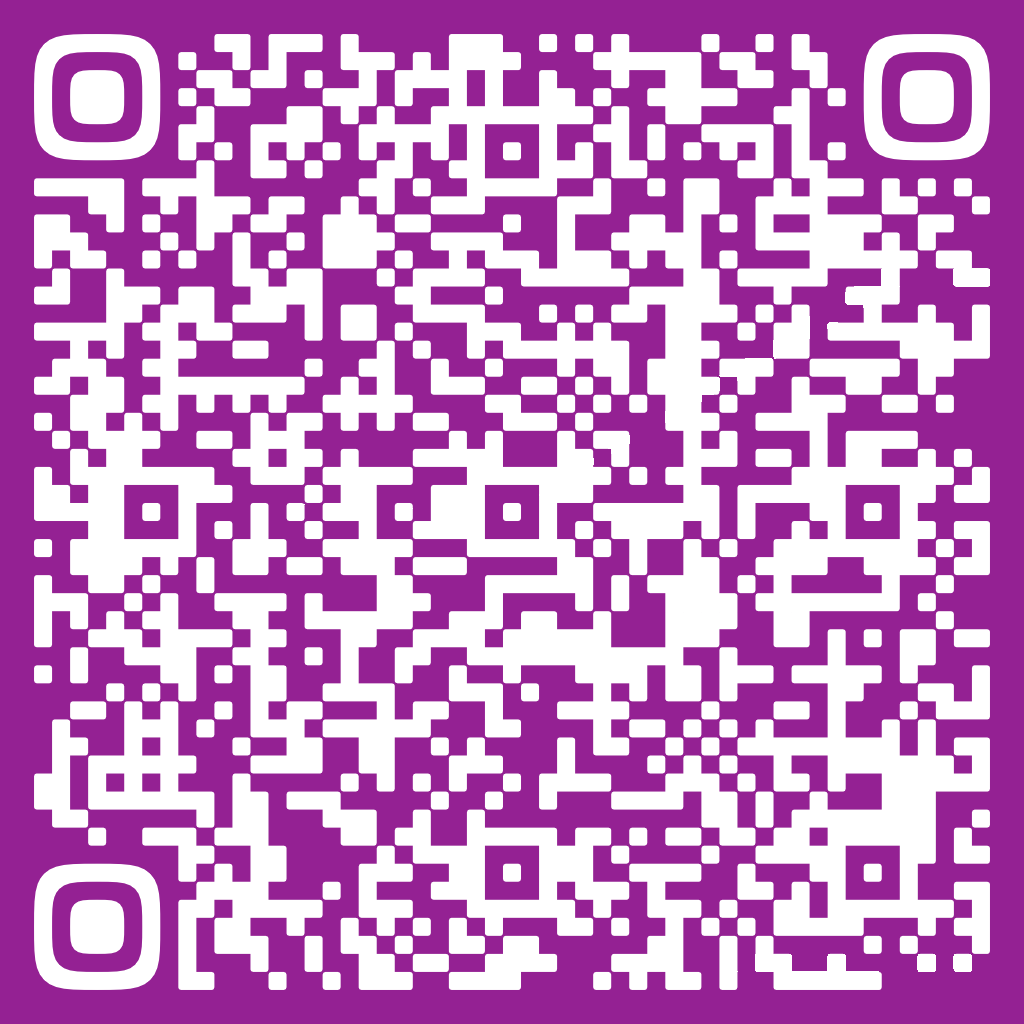
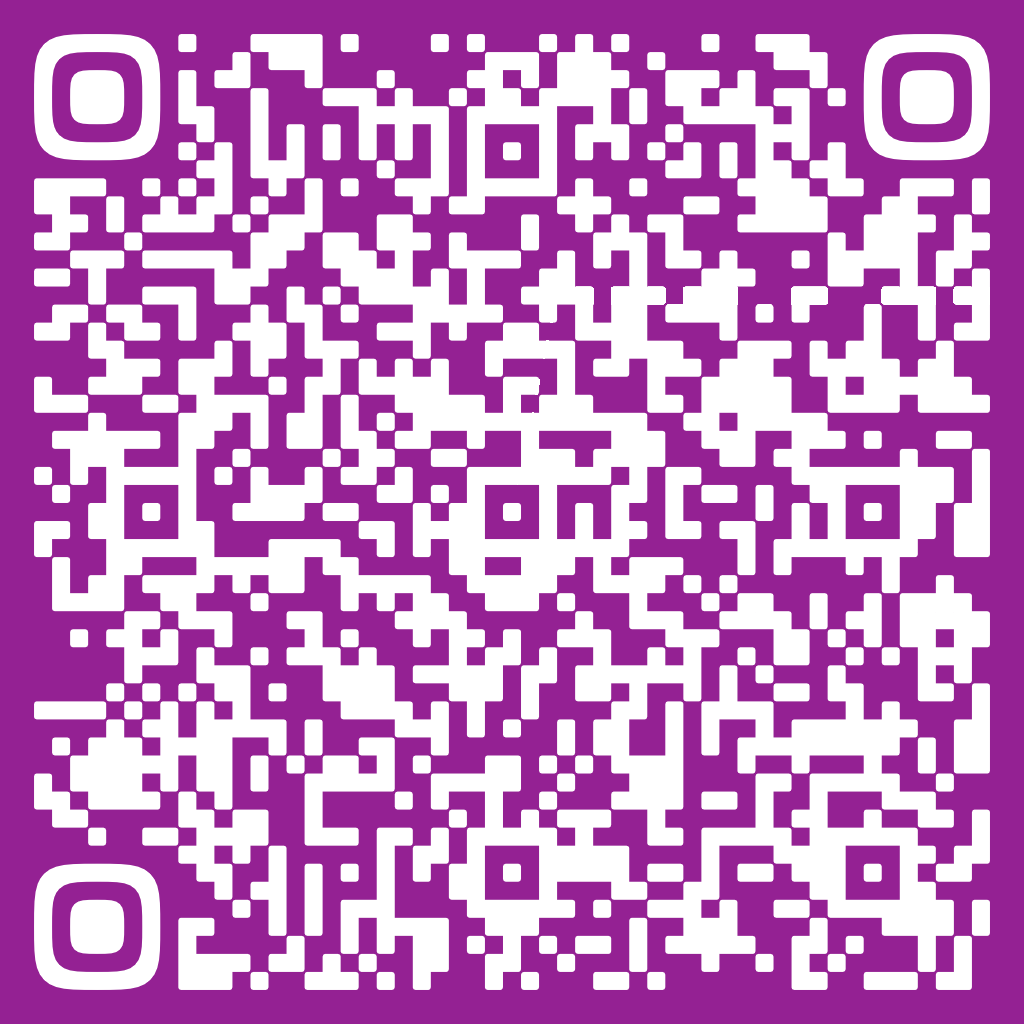
Fix origin parameter

diff --git a/index.html b/index.html
@@ -28,50 +28,50 @@
 
 
     <p><a
-            href="oneappvit://linkaccess/salegallery?call_from=TEP&category=loan&sub_category=loan.personal&sg_product_id=S11003&channel_code=TEP&origin=tept&params=cGFyc2VfZnJvbT1TYWxlX0dhbGxlcnkmc3RhZmZfaWQ9NTgyMjgmY2FtcGFpZ25fY29kZT00NDc4NQ==">ttb
+            href="oneappvit://linkaccess/salegallery?call_from=TEP&category=loan&sub_category=loan.personal&sg_product_id=S11003&channel_code=TEP&origin=tep&params=cGFyc2VfZnJvbT1TYWxlX0dhbGxlcnkmc3RhZmZfaWQ9NTgyMjgmY2FtcGFpZ25fY29kZT00NDc4NQ==">ttb
             Global House Cash Card</a>:<br>
         <img src="img/global_house_cash_card.png" alt="ttb Global House Cash Card">
     <div>
-        oneappvit://linkaccess/salegallery?call_from=TEP&category=loan&sub_category=loan.personal&sg_product_id=S11003&channel_code=TEP&origin=tept&#38;params=cGFyc2VfZnJvbT1TYWxlX0dhbGxlcnkmc3RhZmZfaWQ9NTgyMjgmY2FtcGFpZ25fY29kZT00NDc4NQ==
+        oneappvit://linkaccess/salegallery?call_from=TEP&category=loan&sub_category=loan.personal&sg_product_id=S11003&channel_code=TEP&origin=tep&#38;params=cGFyc2VfZnJvbT1TYWxlX0dhbGxlcnkmc3RhZmZfaWQ9NTgyMjgmY2FtcGFpZ25fY29kZT00NDc4NQ==
     </div>
     </p>
 
 
     <p><a
-            href="oneappvit://linkaccess/salegallery?call_from=TEP&category=loan&sub_category=loan.personal&sg_product_id=S11005&channel_code=TEP&origin=tept&params=cGFyc2VfZnJvbT1TYWxlX0dhbGxlcnkmc3RhZmZfaWQ9NTgyMjgmY2FtcGFpZ25fY29kZT00NDc4OQ==">bunddle
+            href="oneappvit://linkaccess/salegallery?call_from=TEP&category=loan&sub_category=loan.personal&sg_product_id=S11005&channel_code=TEP&origin=tep&params=cGFyc2VfZnJvbT1TYWxlX0dhbGxlcnkmc3RhZmZfaWQ9NTgyMjgmY2FtcGFpZ25fY29kZT00NDc4OQ==">bunddle
             personal loan</a>:<br>
         <img src="img/bunddle_personal_loan.png" alt="bunddle personal loan">
     <div>
-        oneappvit://linkaccess/salegallery?call_from=TEP&category=loan&sub_category=loan.personal&sg_product_id=S11005&channel_code=TEP&origin=tept&#38;params=cGFyc2VfZnJvbT1TYWxlX0dhbGxlcnkmc3RhZmZfaWQ9NTgyMjgmY2FtcGFpZ25fY29kZT00NDc4OQ==
+        oneappvit://linkaccess/salegallery?call_from=TEP&category=loan&sub_category=loan.personal&sg_product_id=S11005&channel_code=TEP&origin=tep&#38;params=cGFyc2VfZnJvbT1TYWxlX0dhbGxlcnkmc3RhZmZfaWQ9NTgyMjgmY2FtcGFpZ25fY29kZT00NDc4OQ==
     </div>
     </p>
 
 
     <p><a
-            href="oneappvit://linkaccess/salegallery?call_from=TEP&category=loan&sub_category=loan.personal&sg_product_id=S20008&channel_code=TEP&origin=tept&params=cGFyc2VfZnJvbT1TYWxlX0dhbGxlcnkmc3RhZmZfaWQ9NTgyMjgmY2FtcGFpZ25fY29kZT00NDcxOQ==">bunddle
+            href="oneappvit://linkaccess/salegallery?call_from=TEP&category=loan&sub_category=loan.personal&sg_product_id=S20008&channel_code=TEP&origin=tep&params=cGFyc2VfZnJvbT1TYWxlX0dhbGxlcnkmc3RhZmZfaWQ9NTgyMjgmY2FtcGFpZ25fY29kZT00NDcxOQ==">bunddle
             credit card</a>:<br>
         <img src="img/bunddle_credit_card.png" alt="bunddle credit card">
     <div>
-        oneappvit://linkaccess/salegallery?call_from=TEP&category=loan&sub_category=loan.personal&sg_product_id=S20008&channel_code=TEP&origin=tept&#38;params=cGFyc2VfZnJvbT1TYWxlX0dhbGxlcnkmc3RhZmZfaWQ9NTgyMjgmY2FtcGFpZ25fY29kZT00NDcxOQ==
+        oneappvit://linkaccess/salegallery?call_from=TEP&category=loan&sub_category=loan.personal&sg_product_id=S20008&channel_code=TEP&origin=tep&#38;params=cGFyc2VfZnJvbT1TYWxlX0dhbGxlcnkmc3RhZmZfaWQ9NTgyMjgmY2FtcGFpZ25fY29kZT00NDcxOQ==
     </div>
     </p>
 
 
     <p><a
-            href="oneappvit://linkaccess/salegallery?call_from=TEP&category=loan&sub_category=loan.personal&sg_product_id=S12003&channel_code=TEP&origin=tept&params=cGFyc2VfZnJvbT1TYWxlX0dhbGxlcnkmc3RhZmZfaWQ9NTgyMjgmY2FtcGFpZ25fY29kZT00NDcxMg==">CYC</a>:<br>
+            href="oneappvit://linkaccess/salegallery?call_from=TEP&category=loan&sub_category=loan.personal&sg_product_id=S12003&channel_code=TEP&origin=tep&params=cGFyc2VfZnJvbT1TYWxlX0dhbGxlcnkmc3RhZmZfaWQ9NTgyMjgmY2FtcGFpZ25fY29kZT00NDcxMg==">CYC</a>:<br>
         <img src="img/cyc.png" alt="CYC">
     <div>
-        oneappvit://linkaccess/salegallery?call_from=TEP&category=loan&sub_category=loan.personal&sg_product_id=S12003&channel_code=TEP&origin=tept&#38;params=cGFyc2VfZnJvbT1TYWxlX0dhbGxlcnkmc3RhZmZfaWQ9NTgyMjgmY2FtcGFpZ25fY29kZT00NDcxMg==
+        oneappvit://linkaccess/salegallery?call_from=TEP&category=loan&sub_category=loan.personal&sg_product_id=S12003&channel_code=TEP&origin=tep&#38;params=cGFyc2VfZnJvbT1TYWxlX0dhbGxlcnkmc3RhZmZfaWQ9NTgyMjgmY2FtcGFpZ25fY29kZT00NDcxMg==
     </div>
     </p>
 
 
     <p><a
-            href="oneappvit://linkaccess/salegallery?call_from=TEP&category=loan&sub_category=loan.personal&sg_product_id=S13001&channel_code=TEP&origin=tept&params=cGFyc2VfZnJvbT1TYWxlX0dhbGxlcnkmc3RhZmZfaWQ9NTgyMjgmY2FtcGFpZ25fY29kZT00NDIxMg==">Home
+            href="oneappvit://linkaccess/salegallery?call_from=TEP&category=loan&sub_category=loan.personal&sg_product_id=S13001&channel_code=TEP&origin=tep&params=cGFyc2VfZnJvbT1TYWxlX0dhbGxlcnkmc3RhZmZfaWQ9NTgyMjgmY2FtcGFpZ25fY29kZT00NDIxMg==">Home
             Loan - New Home/Pre-owned</a>:<br>
         <img src="img/home_loan_new_home.png" alt="Home Loan - New Home/Pre-owned">
     <div>
-        oneappvit://linkaccess/salegallery?call_from=TEP&category=loan&sub_category=loan.personal&sg_product_id=S13001&channel_code=TEP&origin=tept&#38;params=cGFyc2VfZnJvbT1TYWxlX0dhbGxlcnkmc3RhZmZfaWQ9NTgyMjgmY2FtcGFpZ25fY29kZT00NDIxMg==
+        oneappvit://linkaccess/salegallery?call_from=TEP&category=loan&sub_category=loan.personal&sg_product_id=S13001&channel_code=TEP&origin=tep&#38;params=cGFyc2VfZnJvbT1TYWxlX0dhbGxlcnkmc3RhZmZfaWQ9NTgyMjgmY2FtcGFpZ25fY29kZT00NDIxMg==
     </div>
     </p>
 
